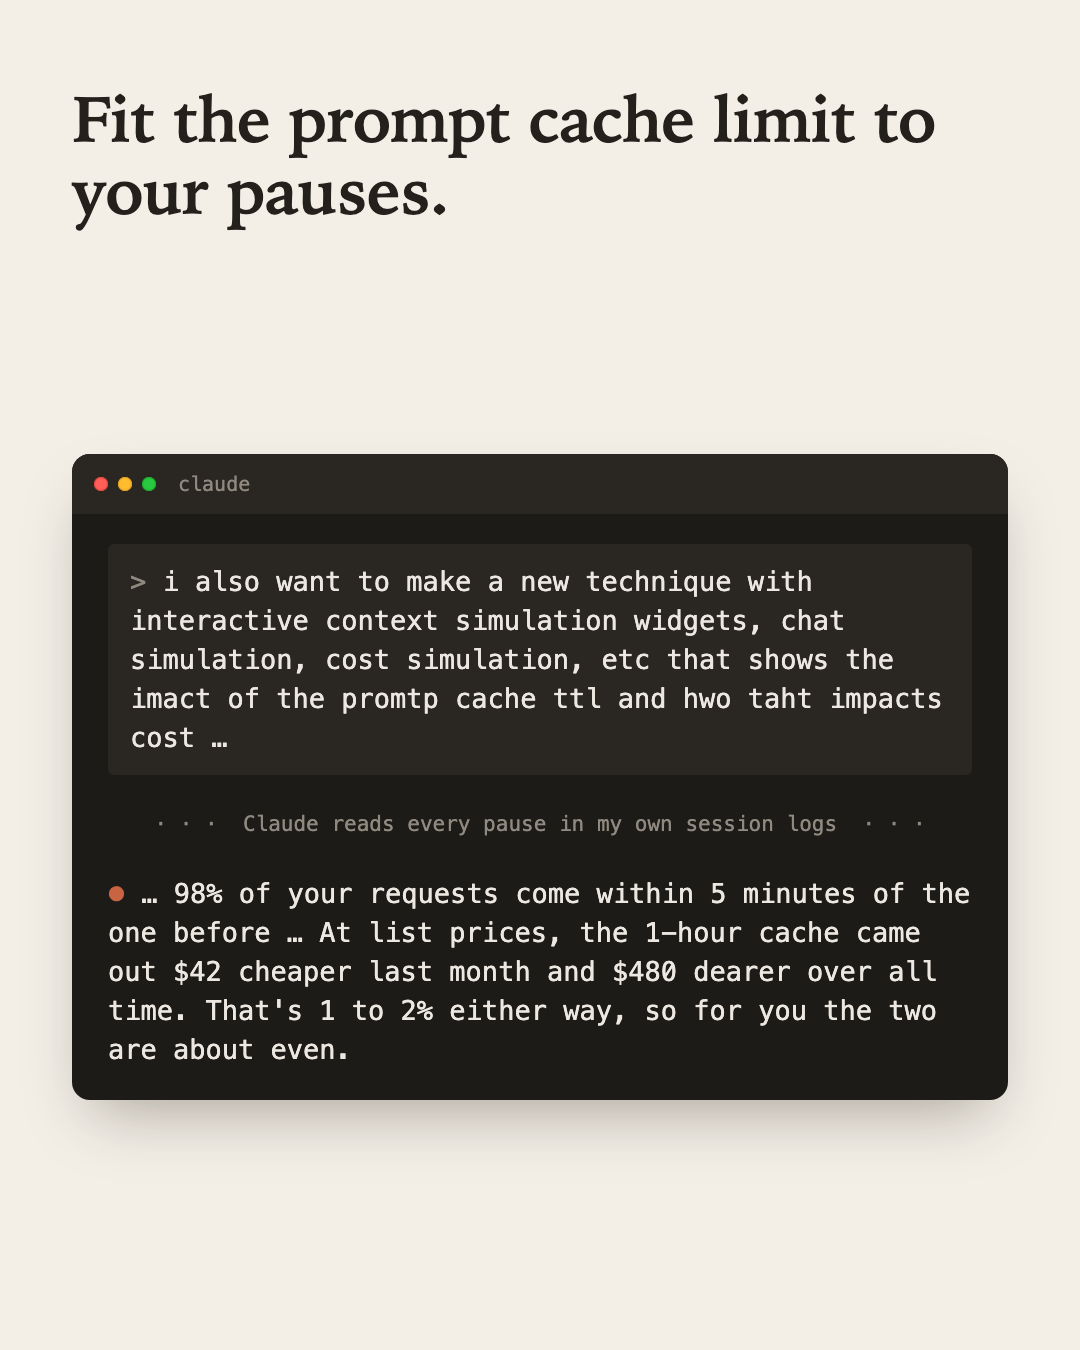
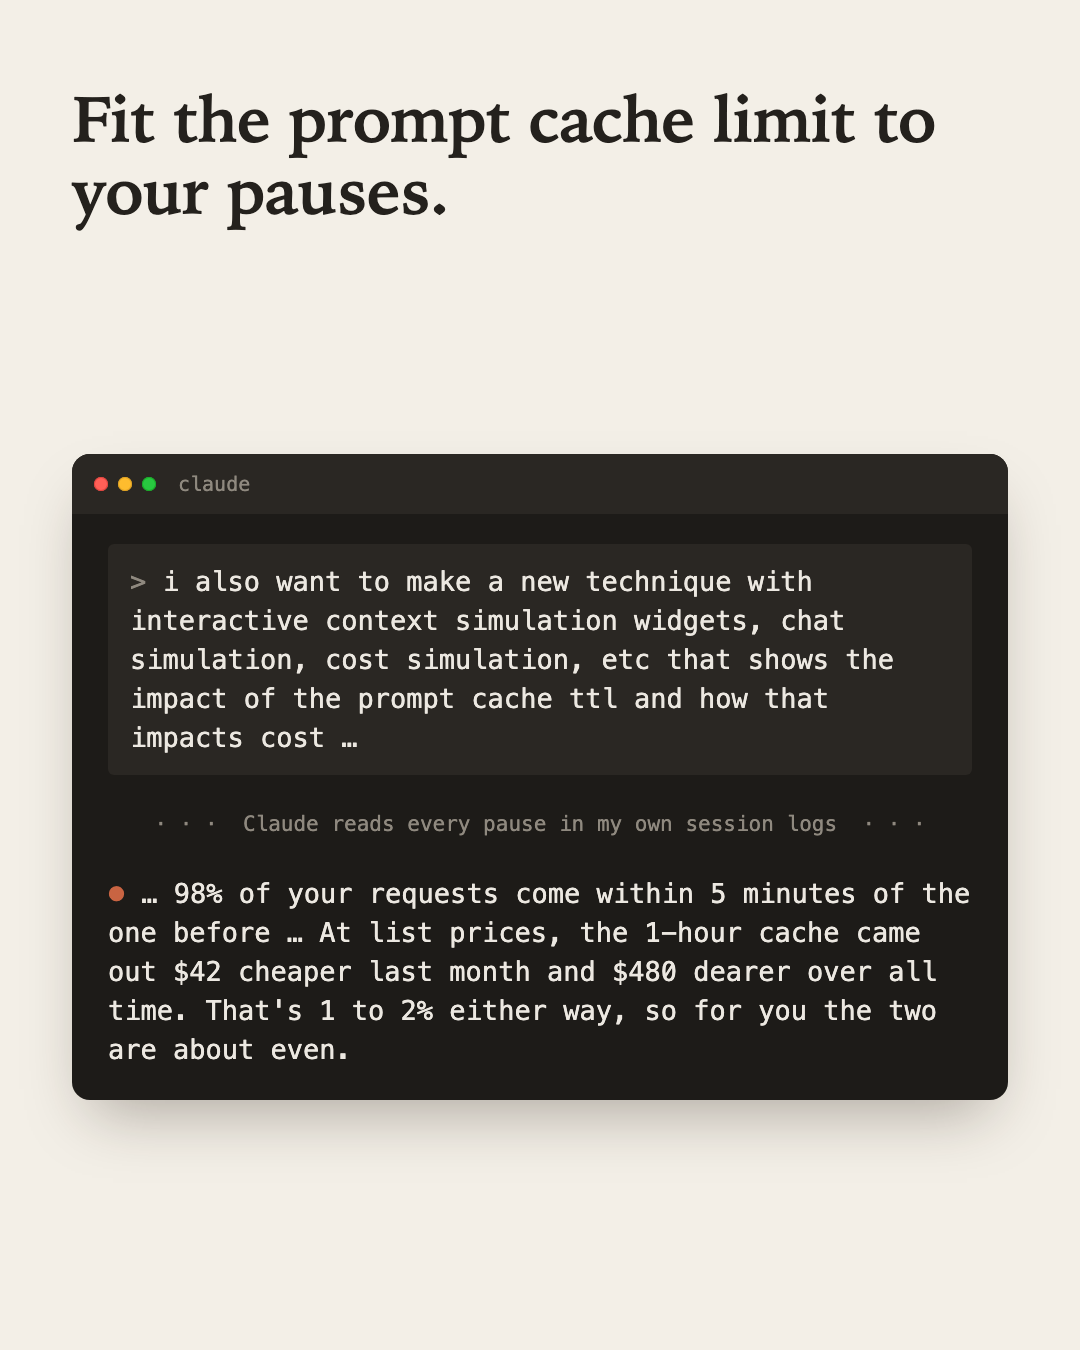
Fix spelling slips in the technique pictures and page quotes
From the page comment on the #7 picture: the pictures for #1, #7, #9 and
#24 are redrawn with each typo spelled as the word plainly meant, and the
same fix goes in the 'In my own words' quotes on the #1, #7 and #9 pages.

Claude-Session: https://claude.ai/code/session_01VTzD7jnHmo3J6iKKKYVnzt

Changed region(s): [[0.1222, 0.4978, 0.5194, 0.56], [0.55, 0.4978, 0.8556, 0.5289]]

diff --git a/bytesofpurpose-blog/docs/craft/generative-ai/claude-code-techniques/pull-out-the-patterns-before-you-republish.md b/bytesofpurpose-blog/docs/craft/generative-ai/claude-code-techniques/pull-out-the-patterns-before-you-republish.md
@@ -124,9 +124,9 @@ list of candidates is the useful part, even if you never write the posts.
 
 ## In my own words
 
-- "maybe one post gets broken into many general patters" (July 2026)
+- "maybe one post gets broken into many general patterns" (July 2026)
 - "can we start with a design post for general pattern and move later" (July 2026)
-- "there may be many patterns intetangeld" (July 2026)
+- "there may be many patterns intertangled" (July 2026)
 
 ## Related
 

diff --git a/bytesofpurpose-blog/docs/craft/generative-ai/claude-code-techniques/a-skill-that-cannot-approve-its-own-work.md b/bytesofpurpose-blog/docs/craft/generative-ai/claude-code-techniques/a-skill-that-cannot-approve-its-own-work.md
@@ -140,7 +140,7 @@ in, unstamped, waiting for a click.
 
 The rule came out of a few short messages before it was ever code:
 
-- "propose, create relevant csvx, reviewid in ui" (August 2026)
+- "propose, create relevant csvs, reviewed in ui" (August 2026)
 - "the choice to publish should be mine whether buttons in ui or ask question in skill" (August 2026)
 - "we should have a different button - queue for publishgin vs a red publish as exception" (August 2026)
 

diff --git a/bytesofpurpose-blog/docs/craft/generative-ai/claude-code-techniques/telling-claude-when-to-stop-and-ask.md b/bytesofpurpose-blog/docs/craft/generative-ai/claude-code-techniques/telling-claude-when-to-stop-and-ask.md
@@ -138,7 +138,7 @@ a documented format, so check the command still works after you update.
 
 I didn't start with a rule. I started by saying it, over and over, until it was worth writing down:
 
-- "use ask question tool to capture my decsiions" (August 2026)
+- "use ask question tool to capture my decisions" (August 2026)
 - "use ask question tool if input needed from me" (August 2026)
 - "... to use the ask question tool to understand my taste" (August 2026)
 
